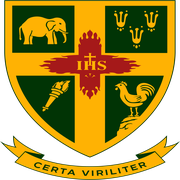
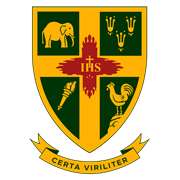
Turn "/" into the school landing page; move G1 dashboard to /g1-admissions
- "/" now shows a placeholder school landing page with the college crest,
  name, motto, and a CTA into the Grade 1 admissions portal
- G1 application dashboard lives at /g1-admissions (/g1 redirects there);
  all "back to dashboard" links, post-sign-in and post-submit redirects follow
- Rebrand header/footer to "Aloysius College Galle", slim the navbar to crest
  + name only, drop the "Built with ♥" footer line, link the admissions portal
  from the footer, and retitle the root document as the school site
- Intake year is now interpolated from INTAKE_YEAR_DEFAULT (2027) instead of
  hard-coded "2026" in the hero badge, form copy, admin editor, mark
  allocation page, PDF sheet, and footer
- Regenerate favicons/app icons from logo.png preserving the crest's portrait
  aspect ratio (previously squashed into a square)

Claude-Session: https://claude.ai/code/session_0125jdYYsBUbDoK62i5XShP1

diff --git a/apps/web/src/i18n/si.ts b/apps/web/src/i18n/si.ts
@@ -1,7 +1,6 @@
 const si = {
   // ─── header.tsx ───────────────────────────────────────────────
-  "header.brand": "Aloysius Admissions",
-  "header.brand.school": "ශාන්ත ඇලෝසියස් විද්යාලය",
+  "header.brand": "Aloysius College Galle",
   "header.nav.home": "මුල් පිටුව",
 
   // ─── user-menu.tsx ────────────────────────────────────────────
@@ -15,21 +14,27 @@ const si = {
   "auth.hero.motto": "Certa Viriliter",
 
   // ─── footer.tsx ───────────────────────────────────────────────
-  "footer.brand": "Aloysius Admissions",
+  "footer.brand": "Aloysius College Galle",
   "footer.tagline": "සෑම විටම නවීනයි, කිසිදිනක පැරණි නැත.",
-  "footer.project.heading": "ව්යාපෘතිය",
-  "footer.project.portal": "පාසල් ඇතුළත් කිරීමේ ද්වාරය",
-  "footer.project.intake": "1 ශ්රේණිය ඇතුළත් කිරීමේ පද්ධතිය",
+  "footer.project.heading": "ඇතුළත් කිරීම්",
+  "footer.project.portal": "1 ශ්රේණිය ඇතුළත් කිරීමේ ද්වාරය",
+  "footer.project.intake": "1 ශ්රේණිය {year} ඇතුළත් කිරීම",
   "footer.school.heading": "පාසල",
   "footer.school.name": "ගාල්ල ශාන්ත ඇලෝසියස් විද්යාලය",
   "footer.school.location": "ගාල්ල, ශ්රී ලංකාව",
   "footer.developers.heading": "සංවර්ධකයින්",
   "footer.developers.name": "Team CS Development",
   "footer.copyright": "© {year} Team CS Development. සියලුම හිමිකම් ඇවිරිණි.",
-  "footer.builtWith": "ශාන්ත ඇලෝසියස් විද්යාලය වෙනුවෙන් ආදරයෙන් නිර්මාණය කරන ලදී",
+
+  // ─── building-page.tsx ────────────────────────────────────────
+  "building.description": "ශාන්ත ඇලෝසියස් විද්යාලයේ වෙබ් අඩවිය මේ වන විට සකස් වෙමින් පවතී. එතෙක් 1 ශ්රේණිය ඇතුළත් කිරීමේ ද්වාරය පහතින් විවෘතව ඇත.",
+  "building.schoolName": "ගාල්ල ශාන්ත ඇලෝසියස් විද්යාලය",
+  "building.location": "ගාල්ල, ශ්රී ලංකාව",
+  "building.crestAlt": "ශාන්ත ඇලෝසියස් විද්යාලයේ ලාංඡනය",
+  "building.admissionsCta": "1 ශ්රේණිය {year} ඇතුළත් කිරීම්",
 
   // ─── routes/index.tsx ─────────────────────────────────────────
-  "home.hero.badge": "2026 ශ්රේණිය 1 ඇතුළත් කිරීම",
+  "home.hero.badge": "{year} ශ්රේණිය 1 ඇතුළත් කිරීම",
   "home.hero.title": "අයදුම්පත් පාලක පුවරුව",
   "home.hero.description": "නව අයදුම්පතක් සාදන්න, පවතින එකක් ඉදිරියට ගෙන යන්න, හෝ සුරැකි අයදුම්පත් කළමනාකරණය කරන්න.",
   "home.stats.total": "මුළු එකතුව",
@@ -497,7 +502,7 @@ const si = {
   "appForm.declarationStep.confirmAccuracy":
     "මා විසින් ලබා දී ඇති තොරතුරු මාගේ දැනීමේ හැටියට නිවැරදි බව තහවුරු කරමි.",
   "appForm.declarationStep.consentProcessing":
-    "2026 1 ශ්රේණිය ඇතුළත් කිරීමේ අයදුම්පත සකස් කිරීම සඳහා මෙම තොරතුරු භාවිත කිරීමට මම එකඟ වෙමි.",
+    "{year} 1 ශ්රේණිය ඇතුළත් කිරීමේ අයදුම්පත සකස් කිරීම සඳහා මෙම තොරතුරු භාවිත කිරීමට මම එකඟ වෙමි.",
   "appForm.reviewStep.heading": "ඔබගේ සටහන පරීක්ෂා කරන්න",
   "appForm.reviewStep.description":
     "අයදුම්පත යොමු කිරීමේ පියවර විවෘත වීමට පෙර එකතු කරන ලද සියලුම තොරතුරු නිවැරදිදැයි පරීක්ෂා කරන්න.",
@@ -663,10 +668,10 @@ const si = {
   "appForm.buttons.submitError.couldNotSubmit": "අයදුම්පත යොමු කිරීමට නොහැකි විය. කරුණාකර නැවත උත්සාහ කරන්න.",
   "appForm.buttons.submitError.networkError":
     "සර්වරය (Server) සමඟ සම්බන්ධ වීමට නොහැකි විය. අන්තර්ජාල සබඳතාව පරීක්ෂා කර නැවත උත්සාහ කරන්න.",
-  "appForm.buttons.restoring": "2026 අයදුම්පත් සටහන නැවත ලබා ගනිමින් පවතී",
+  "appForm.buttons.restoring": "{year} අයදුම්පත් සටහන නැවත ලබා ගනිමින් පවතී",
   "appForm.buttons.applicantInfo": "අයදුම්කරුගේ තොරතුරු",
   "appForm.buttons.applicantInfoDescription":
-    "2026 1 ශ්රේණිය ඇතුළත් කිරීම · තොරතුරු ඔබේ වේගයට අනුව සම්පූර්ණ කරන්න. ඔබගේ ප්රගතිය සුරක්ෂිතව සුරැකෙන අතර Session code එක සහ ප්රවේශ සංකේතය මඟින් නැවත විවෘත කළ හැක.",
+    "{year} 1 ශ්රේණිය ඇතුළත් කිරීම · තොරතුරු ඔබේ වේගයට අනුව සම්පූර්ණ කරන්න. ඔබගේ ප්රගතිය සුරක්ෂිතව සුරැකෙන අතර Session code එක සහ ප්රවේශ සංකේතය මඟින් නැවත විවෘත කළ හැක.",
   "appForm.buttons.applicantInfoToggle": "ඔබගේ සැසි කේතය සහ ප්රවේශ යතුර",
   // ─── components/application/category-step.tsx ─────────────────
   "category.tabLabels.6_1": "පදිංචිය සහ ආසන්නතාවය",

diff --git a/apps/web/src/i18n/en.ts b/apps/web/src/i18n/en.ts
@@ -1,7 +1,6 @@
 const en = {
   // ─── header.tsx ───────────────────────────────────────────────
-  "header.brand": "Aloysius Admissions",
-  "header.brand.school": "St. Aloysius' College",
+  "header.brand": "Aloysius College Galle",
   "header.nav.home": "Home",
 
   // ─── user-menu.tsx ────────────────────────────────────────────
@@ -15,21 +14,27 @@ const en = {
   "auth.hero.motto": "Certa Viriliter",
 
   // ─── footer.tsx ───────────────────────────────────────────────
-  "footer.brand": "Aloysius Admissions",
+  "footer.brand": "Aloysius College Galle",
   "footer.tagline": "Always modernised, never ancient.",
-  "footer.project.heading": "Project",
-  "footer.project.portal": "School Admissions Portal",
-  "footer.project.intake": "Grade 1 Intake System",
+  "footer.project.heading": "Admissions",
+  "footer.project.portal": "Grade 1 Admissions Portal",
+  "footer.project.intake": "Grade 1 {year} Intake",
   "footer.school.heading": "School",
   "footer.school.name": "St. Aloysius' College",
   "footer.school.location": "Galle, Sri Lanka",
   "footer.developers.heading": "Developers",
   "footer.developers.name": "Team CS Development",
   "footer.copyright": "© {year} Team CS Development. All rights reserved.",
-  "footer.builtWith": "Built with ♥ for St. Aloysius' College",
+
+  // ─── building-page.tsx ────────────────────────────────────────
+  "building.description": "The St. Aloysius' College website is currently under construction. In the meantime, the Grade 1 admissions portal is open below.",
+  "building.schoolName": "St. Aloysius' College",
+  "building.location": "Galle, Sri Lanka",
+  "building.crestAlt": "St. Aloysius' College crest",
+  "building.admissionsCta": "Grade 1 {year} admissions",
 
   // ─── routes/index.tsx ─────────────────────────────────────────
-  "home.hero.badge": "G1 2026 intake",
+  "home.hero.badge": "G1 {year} intake",
   "home.hero.title": "Application dashboard",
   "home.hero.description": "Create a record, continue an existing one, or manage saved records.",
   "home.stats.total": "Total",
@@ -522,7 +527,7 @@ const en = {
   "appForm.declarationStep.confirmAccuracy":
     "I confirm that the information I provide is accurate to the best of my knowledge.",
   "appForm.declarationStep.consentProcessing":
-    "I consent to this information being used to prepare the Grade 1 2026 intake application.",
+    "I consent to this information being used to prepare the Grade 1 {year} intake application.",
   "appForm.reviewStep.heading": "Review your draft",
   "appForm.reviewStep.description":
     "Check all collected information before the application submission step becomes available.",
@@ -690,10 +695,10 @@ const en = {
     "Could not submit the application. Please try again.",
   "appForm.buttons.submitError.networkError":
     "Could not reach the server. Check your internet connection and try again.",
-  "appForm.buttons.restoring": "Restoring your draft 2026",
+  "appForm.buttons.restoring": "Restoring your {year} draft",
   "appForm.buttons.applicantInfo": "Applicant information",
   "appForm.buttons.applicantInfoDescription":
-    "G1 2026 intake · Complete the details at your own pace. Your progress is saved securely and can be reopened with your session code and access key.",
+    "G1 {year} intake · Complete the details at your own pace. Your progress is saved securely and can be reopened with your session code and access key.",
   "appForm.buttons.applicantInfoToggle": "Your session code and access key",
 
   // ─── components/application/category-step.tsx ─────────────────

diff --git a/apps/web/src/components/g1/home/building-page.tsx b/apps/web/src/components/g1/home/building-page.tsx
@@ -1,0 +1,56 @@
+import { Link } from "@tanstack/react-router";
+import { ArrowRight } from "lucide-react";
+import { Button } from "@aloysius-admissions/ui/components/button";
+import Footer from "@/components/footer";
+import Header from "@/components/header";
+import { INTAKE_YEAR_DEFAULT } from "@/lib/g1/intake-year";
+import { useTranslation } from "@/lib/i18n";
+
+// Placeholder landing page for the school website while the real site is
+// being built. The Grade 1 admissions portal lives at /g1-admissions and is
+// linked from here so the working part of the site stays reachable.
+export function BuildingPage() {
+  const { t } = useTranslation();
+
+  return (
+    <div className="flex min-h-svh flex-col" data-surface="school-home-building">
+      <Header />
+      <main className="relative flex flex-1 items-center justify-center overflow-hidden px-4 py-12 sm:px-8">
+        <div
+          aria-hidden="true"
+          className="pointer-events-none absolute inset-0 bg-[radial-gradient(circle_at_50%_0%,color-mix(in_oklch,var(--primary)_10%,transparent),transparent_55%)]"
+        />
+        <div className="relative z-10 flex w-full max-w-xl flex-col items-center gap-6 text-center">
+          <img
+            src="/logo.png"
+            alt={t("building.crestAlt")}
+            className="h-32 w-32 object-contain drop-shadow-md sm:h-40 sm:w-40"
+            width={160}
+            height={160}
+          />
+          <div className="grid gap-1">
+            <p className="font-heading text-2xl font-semibold tracking-tight text-foreground sm:text-3xl">
+              {t("building.schoolName")}
+            </p>
+            <p className="text-sm text-muted-foreground">{t("building.location")}</p>
+            <p className="font-heading text-xs tracking-[0.25em] text-brand-gold uppercase">
+              {t("auth.hero.motto")}
+            </p>
+          </div>
+
+          <p className="max-w-md text-sm leading-relaxed text-muted-foreground">
+            {t("building.description")}
+          </p>
+
+          <Link to="/g1-admissions" className="contents">
+            <Button type="button" className="shadow-md shadow-primary/15">
+              {t("building.admissionsCta", { year: INTAKE_YEAR_DEFAULT })}
+              <ArrowRight size={16} />
+            </Button>
+          </Link>
+        </div>
+      </main>
+      <Footer />
+    </div>
+  );
+}

diff --git a/apps/web/src/components/g1/admin/admin-application-editor.tsx b/apps/web/src/components/g1/admin/admin-application-editor.tsx
@@ -1,4 +1,5 @@
 import { lazy, useEffect, useState } from "react";
+import { INTAKE_YEAR_DEFAULT } from "@/lib/g1/intake-year";
 import { Check, CircleAlert, MapPin, Save, X, User, Phone, Mail, Calendar, CreditCard, Hash, Map, FileText, Building, Globe, ChevronRight, CircleDot, Settings, Eye, EyeOff, LayoutGrid, Rows3 } from "lucide-react";
 import { useNavigate } from "@tanstack/react-router";
 import { ClientOnly } from "@tanstack/react-router";
@@ -432,7 +433,7 @@ export function AdminApplicationView({ id }: { id: string }) {
     {detail.isLoading && <Card><CardContent><p>Loading application…</p></CardContent></Card>}
     {detail.isError && <Card className="text-destructive"><CardContent className="flex items-center gap-2"><CircleAlert size={18} /> Could not load application: {detail.error.message}</CardContent></Card>}
     {record && <Card className="grid gap-4">
-      <CardHeader><div className="flex items-start justify-between gap-4"><div><p className="text-primary font-bold tracking-widest uppercase text-xs">{data.applicant.fullName || "Unnamed applicant"}</p><CardTitle>G1 2026 application</CardTitle></div><Badge variant={metadata?.submittedAt ? "default" : "secondary"}>{metadata?.submittedAt ? "submitted" : "draft"}</Badge></div></CardHeader>
+      <CardHeader><div className="flex items-start justify-between gap-4"><div><p className="text-primary font-bold tracking-widest uppercase text-xs">{data.applicant.fullName || "Unnamed applicant"}</p><CardTitle>G1 {INTAKE_YEAR_DEFAULT} application</CardTitle></div><Badge variant={metadata?.submittedAt ? "default" : "secondary"}>{metadata?.submittedAt ? "submitted" : "draft"}</Badge></div></CardHeader>
       <CardContent className="grid gap-4">
         <div className="flex gap-4 flex-wrap text-muted-foreground text-sm"><span>Session code <strong>{metadata?.sessionCode ?? "Not available"}</strong></span><span>Created {new Date(metadata?.createdAt ?? "").toLocaleString()}</span><span>Updated {new Date(metadata?.updatedAt ?? "").toLocaleString()}</span></div>
         <div className="flex flex-wrap items-center justify-end gap-1">

diff --git a/apps/web/src/components/g1/application/application-form.tsx b/apps/web/src/components/g1/application/application-form.tsx
@@ -1,4 +1,5 @@
 import { PhoneInput } from "@/components/g1/application/phone-input";
+import { INTAKE_YEAR_DEFAULT } from "@/lib/g1/intake-year";
 import {
   SECTION_COLORS,
   STATUS_ERROR,
@@ -1344,7 +1345,7 @@ function DeclarationStep({
             set({ declaration: { ...draft.declaration, consent: checked === true } })
           }
         />
-        {t("appForm.declarationStep.consentProcessing")}
+        {t("appForm.declarationStep.consentProcessing", { year: INTAKE_YEAR_DEFAULT })}
       </label>
     </div>
   );
@@ -2211,7 +2212,7 @@ export function ApplicationForm({
               {t("appForm.buttons.applicantInfo")}
             </h1>
             <p className="mt-4 max-w-[48rem] text-[1.05rem] leading-relaxed text-muted-foreground">
-              {t("appForm.buttons.applicantInfoDescription")}
+              {t("appForm.buttons.applicantInfoDescription", { year: INTAKE_YEAR_DEFAULT })}
             </p>
             {(draft.sessionCode || draft.accessKey || draft.applicant.fullName) && (
               <div className="mt-5 max-w-[1180px]">
@@ -2809,7 +2810,7 @@ export function ApplicationForm({
                 <Button
                   type="button"
                   variant="secondary"
-                  onClick={() => void navigate({ to: "/" })}
+                  onClick={() => void navigate({ to: "/g1-admissions" })}
                 >
                   <House size={17} /> {t("appForm.submitted.backToHome")}
                 </Button>
@@ -2944,7 +2945,7 @@ export function ApplicationForm({
                       clearActiveKey();
                       draft.reset();
                       set({ clearDraftDialogOpen: false });
-                      window.location.assign("/");
+                      window.location.assign("/g1-admissions");
                     }}
                   >
                     {t("appForm.buttons.clearDraftDialog.confirm")}

diff --git a/apps/web/src/components/footer.tsx b/apps/web/src/components/footer.tsx
@@ -1,4 +1,5 @@
-import { Heart } from "lucide-react";
+import { Link } from "@tanstack/react-router";
+import { INTAKE_YEAR_DEFAULT } from "@/lib/g1/intake-year";
 import { useTranslation } from "@/lib/i18n";
 
 export default function Footer() {
@@ -21,8 +22,8 @@ export default function Footer() {
           <div className="grid grid-cols-2 gap-x-8 gap-y-5 text-sm sm:grid-cols-3 sm:gap-x-16 sm:gap-y-6">
             <div className="flex flex-col gap-1.5">
               <span className="font-medium text-foreground">{t("footer.project.heading")}</span>
-              <span className="text-muted-foreground">{t("footer.project.portal")}</span>
-              <span className="text-muted-foreground">{t("footer.project.intake")}</span>
+              <Link to="/g1-admissions" className="text-muted-foreground no-underline hover:text-foreground">{t("footer.project.portal")}</Link>
+              <span className="text-muted-foreground">{t("footer.project.intake", { year: INTAKE_YEAR_DEFAULT })}</span>
             </div>
             <div className="flex flex-col gap-1.5">
               <span className="font-medium text-foreground">{t("footer.school.heading")}</span>
@@ -40,9 +41,6 @@ export default function Footer() {
           <div className="mx-auto flex max-w-7xl flex-col items-center gap-1 px-4 py-3 text-xs text-muted-foreground sm:flex-row sm:justify-between sm:px-6 sm:py-4">
             <span>
               {t("footer.copyright", { year: new Date().getFullYear() })}
-            </span>
-            <span className="flex items-center gap-1">
-              {t("footer.builtWith")}
             </span>
           </div>
         </div>

diff --git a/apps/web/src/routes/g1-admissions.tsx b/apps/web/src/routes/g1-admissions.tsx
@@ -1,0 +1,35 @@
+import { createFileRoute } from "@tanstack/react-router";
+import { client } from "@/utils/orpc";
+import { HomeComponent } from "@/components/g1/home/home-page";
+import { ErrorState } from "@/components/error-state";
+
+// Grade 1 admissions dashboard. "/" is the school website's landing page, so
+// this route is the dedicated entry point for the G1 application flow.
+function G1AdmissionsRouteComponent() {
+  const { isAdmin, isSubAdmin } = Route.useLoaderData();
+  return <HomeComponent isAdmin={isAdmin} isSubAdmin={isSubAdmin} />;
+}
+
+export const Route = createFileRoute("/g1-admissions")({
+  head: () => ({
+    meta: [
+      { title: "St. Aloysius' College — Grade 1 Admissions" },
+      {
+        name: "description",
+        content: "Online admissions portal for Grade 1 applications to St. Aloysius' College, Galle.",
+      },
+    ],
+  }),
+  // isAdmin/isSubAdmin decide whether the admin-panel/sub-admin-panel
+  // shortcuts show, so they need a real per-request check rather than a
+  // client-only hook. Goes through the oRPC API
+  // (packages/api/src/routers/index.ts's session.isAdmin/isSubAdmin), which
+  // resolves the session server-side via the shared oRPC context
+  // (packages/api/src/context.ts) - no separate better-auth client call.
+  loader: async () => {
+    const [{ isAdmin }, { isSubAdmin }] = await Promise.all([client.session.isAdmin(), client.session.isSubAdmin()]);
+    return { isAdmin, isSubAdmin };
+  },
+  errorComponent: (props) => <ErrorState {...props} />,
+  component: G1AdmissionsRouteComponent,
+});

diff --git a/apps/web/src/routes/_auth/g1/admin/forgot-requests.tsx b/apps/web/src/routes/_auth/g1/admin/forgot-requests.tsx
@@ -114,7 +114,7 @@ function AdminForgotRequestsPage() {
     return () => { controller.abort(); cancel(); };
   }, [session.data?.user.role, requests]);
 
-  if (session.data?.user.role !== "admin") return <main className="grid place-items-center min-h-svh p-6"><Card className="w-full max-w-md gap-5 p-8"><CardHeader className="p-0"><CardTitle className="font-heading text-[clamp(1.8rem,4vw,2.5rem)]">Admin access required</CardTitle><CardDescription className="leading-relaxed">Your account does not have permission to view requests.</CardDescription></CardHeader><Button variant="default" className="w-fit" render={<Link to="/" />} nativeButton={false}><ArrowLeft size={17} /> Back to dashboard</Button></Card></main>;
+  if (session.data?.user.role !== "admin") return <main className="grid place-items-center min-h-svh p-6"><Card className="w-full max-w-md gap-5 p-8"><CardHeader className="p-0"><CardTitle className="font-heading text-[clamp(1.8rem,4vw,2.5rem)]">Admin access required</CardTitle><CardDescription className="leading-relaxed">Your account does not have permission to view requests.</CardDescription></CardHeader><Button variant="default" className="w-fit" render={<Link to="/g1-admissions" />} nativeButton={false}><ArrowLeft size={17} /> Back to dashboard</Button></Card></main>;
 
   const items = (requests.data?.items ?? []) as ForgotRequestRow[];
   const pageCount = requests.data ? Math.ceil(requests.data.total / requests.data.pageSize) : 0;

diff --git a/apps/web/src/components/g1/home/home-page.tsx b/apps/web/src/components/g1/home/home-page.tsx
@@ -11,6 +11,7 @@ import { Input } from "@aloysius-admissions/ui/components/input";
 import { orpc } from "@/utils/orpc";
 import type { ApplicationDraft } from "@/lib/g1/application-store";
 import { completionPercent } from "@/lib/g1/completion";
+import { INTAKE_YEAR_DEFAULT } from "@/lib/g1/intake-year";
 import { clearActiveKey, setActiveKey } from "@/lib/g1/saved-keys";
 import { useSavedApplicationsStore } from "@/lib/g1/saved-applications-store";
 import { useHomeUiStore } from "@/lib/g1/home-ui-store";
@@ -116,7 +117,7 @@ export function HomeComponent({ isAdmin, isSubAdmin }: { isAdmin: boolean; isSub
   });
 
   return (
-    <div className="flex min-h-svh flex-col" data-surface="g1-2026-application">
+    <div className="flex min-h-svh flex-col" data-surface="g1-application">
       <Header />
       <main className="flex-1">
       <div className="mx-auto max-w-[1120px] px-4 sm:px-8 pt-4 pb-8 sm:pt-8 sm:pb-16 grid gap-6 sm:gap-10">
@@ -127,7 +128,7 @@ export function HomeComponent({ isAdmin, isSubAdmin }: { isAdmin: boolean; isSub
               <LayoutDashboard size={14} />
             </div>
             <p className="text-primary font-bold tracking-widest uppercase text-[0.65rem]">
-              {t("home.hero.badge")}
+              {t("home.hero.badge", { year: INTAKE_YEAR_DEFAULT })}
             </p>
           </div>
           <h1 className="font-heading text-3xl sm:text-4xl font-medium tracking-tight text-foreground">

diff --git a/apps/web/src/routes/_auth/g1/admin/applications.tsx b/apps/web/src/routes/_auth/g1/admin/applications.tsx
@@ -215,7 +215,7 @@ function AdminApplicationsPage() {
   }, [session.data?.user.role]);
 
   if (location.pathname !== "/g1/admin/applications") return <Outlet />;
-  if (session.data?.user.role !== "admin") return <main className="grid place-items-center min-h-svh p-6"><Card className="w-full max-w-md gap-5 p-8"><CardHeader className="p-0"><CardTitle className="font-heading text-[clamp(1.8rem,4vw,2.5rem)]">Admin access required</CardTitle><CardDescription className="leading-relaxed">Your account does not have permission to view applications.</CardDescription></CardHeader><Button variant="default" className="w-fit" render={<Link to="/" />}><ArrowLeft size={17} /> Back to dashboard</Button></Card></main>;
+  if (session.data?.user.role !== "admin") return <main className="grid place-items-center min-h-svh p-6"><Card className="w-full max-w-md gap-5 p-8"><CardHeader className="p-0"><CardTitle className="font-heading text-[clamp(1.8rem,4vw,2.5rem)]">Admin access required</CardTitle><CardDescription className="leading-relaxed">Your account does not have permission to view applications.</CardDescription></CardHeader><Button variant="default" className="w-fit" render={<Link to="/g1-admissions" />}><ArrowLeft size={17} /> Back to dashboard</Button></Card></main>;
 
   const items = (applications.data?.items ?? []) as ApplicationRow[];
   const pageCount = applications.data ? Math.ceil(applications.data.total / applications.data.pageSize) : 0;

diff --git a/apps/web/src/routes/g1.tsx b/apps/web/src/routes/g1.tsx
@@ -1,25 +1,8 @@
-import { createFileRoute } from "@tanstack/react-router";
-import { client } from "@/utils/orpc";
-import { HomeComponent } from "@/components/g1/home/home-page";
+import { createFileRoute, redirect } from "@tanstack/react-router";
 
-// Duplicate of routes/index.tsx's home route, addressable at /g1. Once a
-// second admission logic exists, "/" becomes a picker between admission
-// types and this route stays the dedicated G1 entry point.
-function G1RouteComponent() {
- const { isAdmin, isSubAdmin } = Route.useLoaderData();
- return <HomeComponent isAdmin={isAdmin} isSubAdmin={isSubAdmin} />;
-}
-
+// Legacy alias: the G1 dashboard used to be served here. Keep old links working.
 export const Route = createFileRoute("/g1")({
- // isAdmin/isSubAdmin decide whether the admin-panel/sub-admin-panel
- // shortcuts show, so they need a real per-request check rather than a
- // client-only hook. Goes through the oRPC API
- // (packages/api/src/routers/index.ts's session.isAdmin/isSubAdmin), which
- // resolves the session server-side via the shared oRPC context
- // (packages/api/src/context.ts) - no separate better-auth client call.
- loader: async () => {
- const [{ isAdmin }, { isSubAdmin }] = await Promise.all([client.session.isAdmin(), client.session.isSubAdmin()]);
- return { isAdmin, isSubAdmin };
- },
- component: G1RouteComponent,
+  beforeLoad: () => {
+    throw redirect({ to: "/g1-admissions" });
+  },
 });

diff --git a/apps/web/src/routes/_auth/g1/admin/removal-requests.tsx b/apps/web/src/routes/_auth/g1/admin/removal-requests.tsx
@@ -138,7 +138,7 @@ function AdminRemovalRequestsPage() {
     return () => { controller.abort(); cancel(); };
   }, [session.data?.user.role, requests]);
 
-  if (session.data?.user.role !== "admin") return <main className="grid place-items-center min-h-svh p-6"><Card className="w-full max-w-md gap-5 p-8"><CardHeader className="p-0"><CardTitle className="font-heading text-[clamp(1.8rem,4vw,2.5rem)]">Admin access required</CardTitle><CardDescription className="leading-relaxed">Your account does not have permission to view requests.</CardDescription></CardHeader><Button variant="default" className="w-fit" render={<Link to="/" />}><ArrowLeft size={17} /> Back to dashboard</Button></Card></main>;
+  if (session.data?.user.role !== "admin") return <main className="grid place-items-center min-h-svh p-6"><Card className="w-full max-w-md gap-5 p-8"><CardHeader className="p-0"><CardTitle className="font-heading text-[clamp(1.8rem,4vw,2.5rem)]">Admin access required</CardTitle><CardDescription className="leading-relaxed">Your account does not have permission to view requests.</CardDescription></CardHeader><Button variant="default" className="w-fit" render={<Link to="/g1-admissions" />}><ArrowLeft size={17} /> Back to dashboard</Button></Card></main>;
 
   const items = (requests.data?.items ?? []) as RemovalRequestRow[];
   const pageCount = requests.data ? Math.ceil(requests.data.total / requests.data.pageSize) : 0;
